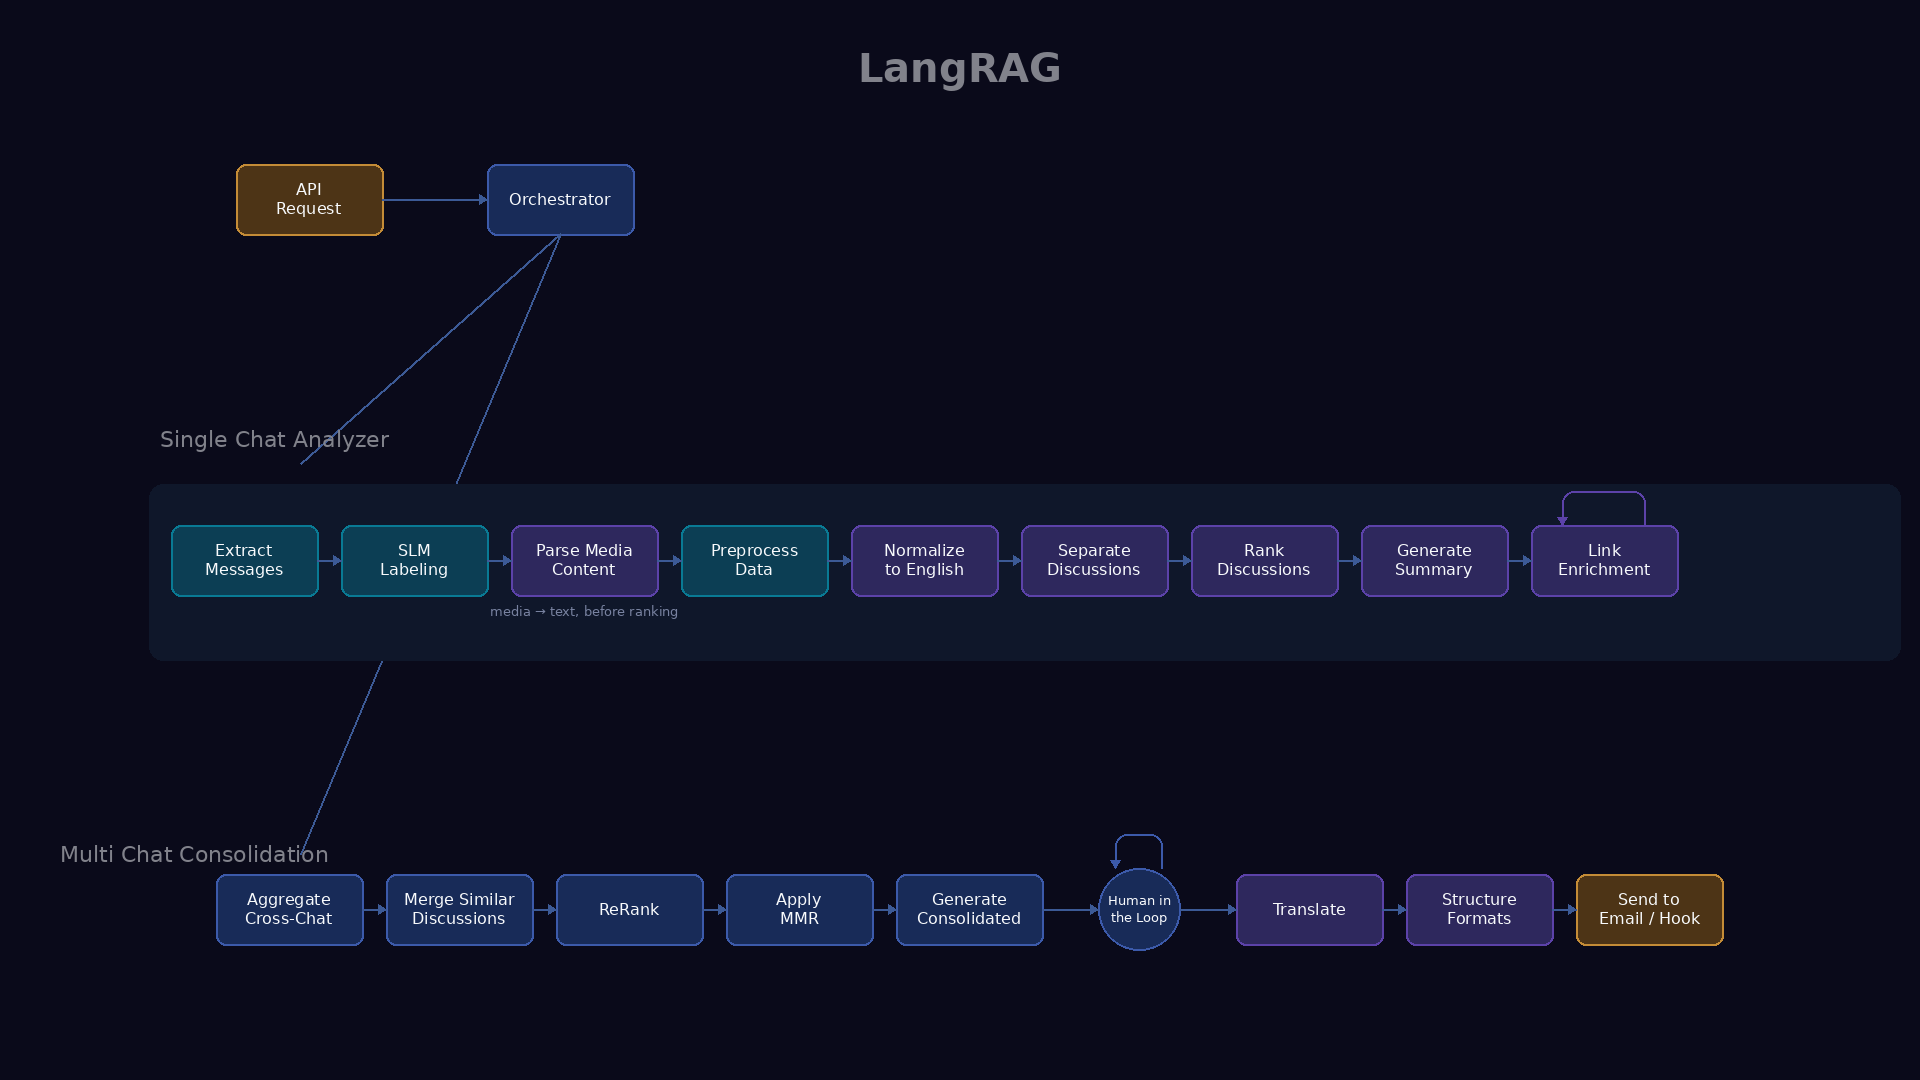
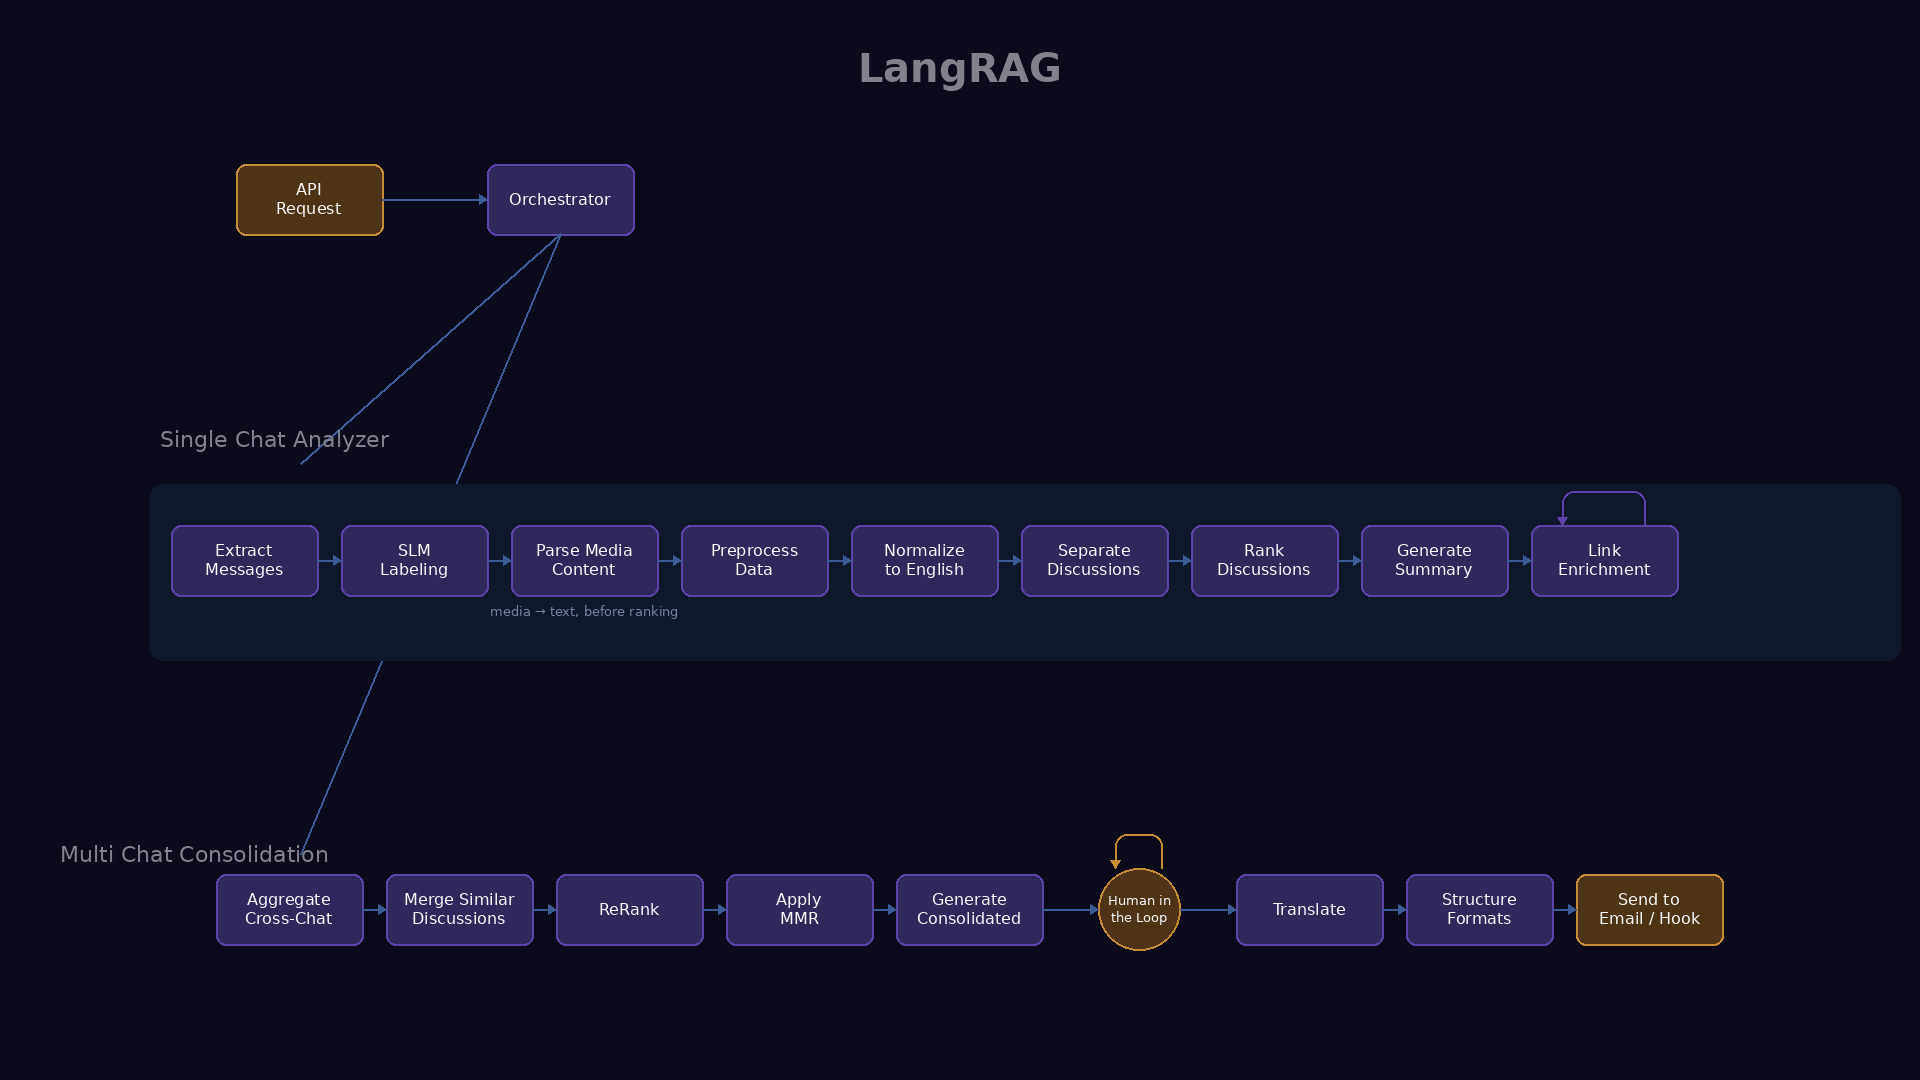
Recolor pipeline diagrams to a two-color scheme

Changed region(s): [[0.0625, 0.4889, 0.2812, 0.55], [0.5625, 0.7944, 0.625, 0.8861], [0.3438, 0.4889, 0.4375, 0.55]]

diff --git a/docs/figures/pipeline-animation/src/scenes/pipeline.tsx b/docs/figures/pipeline-animation/src/scenes/pipeline.tsx
@@ -59,15 +59,15 @@ interface StageData {
 // Media content is parsed to text before Preprocess, so it participates in
 // ranking; the post-rank "Associate Images" join is therefore unnecessary.
 const PIPELINE_STAGES: StageData[] = [
-  {label: 'Extract\nMessages', color: COLORS.TEAL},
-  {label: 'SLM\nLabeling', color: COLORS.TEAL},
-  {label: 'Parse Media\nContent', color: COLORS.PURPLE},
-  {label: 'Preprocess\nData', color: COLORS.TEAL},
-  {label: 'Normalize\nto English', color: COLORS.PURPLE},
-  {label: 'Separate\nDiscussions', color: COLORS.PURPLE},
-  {label: 'Rank\nDiscussions', color: COLORS.PURPLE},
-  {label: 'Generate\nSummary', color: COLORS.PURPLE},
-  {label: 'Link\nEnrichment', color: COLORS.PURPLE},
+  {label: 'Extract\nMessages', color: COLORS.INTERNAL},
+  {label: 'SLM\nLabeling', color: COLORS.INTERNAL},
+  {label: 'Parse Media\nContent', color: COLORS.INTERNAL},
+  {label: 'Preprocess\nData', color: COLORS.INTERNAL},
+  {label: 'Normalize\nto English', color: COLORS.INTERNAL},
+  {label: 'Separate\nDiscussions', color: COLORS.INTERNAL},
+  {label: 'Rank\nDiscussions', color: COLORS.INTERNAL},
+  {label: 'Generate\nSummary', color: COLORS.INTERNAL},
+  {label: 'Link\nEnrichment', color: COLORS.INTERNAL},
 ];
 
 interface BottomNode {
@@ -78,15 +78,15 @@ interface BottomNode {
 
 // Bottom row: 9 nodes — consolidation pipeline
 const BOTTOM_NODES: BottomNode[] = [
-  {label: 'Aggregate\nCross-Chat', color: COLORS.BLUE},
-  {label: 'Merge Similar\nDiscussions', color: COLORS.BLUE},
-  {label: 'ReRank', color: COLORS.BLUE},
-  {label: 'Apply\nMMR', color: COLORS.BLUE},
-  {label: 'Generate\nConsolidated', color: COLORS.BLUE},
-  {label: 'Human in\nthe Loop', color: COLORS.BLUE, isCircle: true},
-  {label: 'Translate', color: COLORS.PURPLE},
-  {label: 'Structure\nFormats', color: COLORS.PURPLE},
-  {label: 'Send to\nEmail / Hook', color: COLORS.AMBER},
+  {label: 'Aggregate\nCross-Chat', color: COLORS.INTERNAL},
+  {label: 'Merge Similar\nDiscussions', color: COLORS.INTERNAL},
+  {label: 'ReRank', color: COLORS.INTERNAL},
+  {label: 'Apply\nMMR', color: COLORS.INTERNAL},
+  {label: 'Generate\nConsolidated', color: COLORS.INTERNAL},
+  {label: 'Human in\nthe Loop', color: COLORS.USER, isCircle: true},
+  {label: 'Translate', color: COLORS.INTERNAL},
+  {label: 'Structure\nFormats', color: COLORS.INTERNAL},
+  {label: 'Send to\nEmail / Hook', color: COLORS.USER},
 ];
 
 // ──────────────────────────────────────────────────
@@ -156,12 +156,12 @@ export default makeScene2D(function* (view) {
         width={NODE_W}
         height={NODE_H}
         radius={8}
-        fill={COLORS.AMBER + '30'}
-        stroke={COLORS.AMBER}
+        fill={COLORS.USER + '30'}
+        stroke={COLORS.USER}
         lineWidth={1.5}
         opacity={0}
         scale={0.6}
-        shadowColor={glowOf(COLORS.AMBER)}
+        shadowColor={glowOf(COLORS.USER)}
         shadowBlur={12}
       >
         <Txt
@@ -182,12 +182,12 @@ export default makeScene2D(function* (view) {
         width={220}
         height={NODE_H}
         radius={8}
-        fill={COLORS.BLUE + '30'}
-        stroke={COLORS.BLUE}
+        fill={COLORS.INTERNAL + '30'}
+        stroke={COLORS.INTERNAL}
         lineWidth={1.5}
         opacity={0}
         scale={0.6}
-        shadowColor={glowOf(COLORS.BLUE)}
+        shadowColor={glowOf(COLORS.INTERNAL)}
         shadowBlur={12}
       >
         <Txt
@@ -252,7 +252,7 @@ export default makeScene2D(function* (view) {
           new Vector2(orchX + (fi - 1) * 30, midY),
           new Vector2(fanTargetX, targetY),
         ]}
-        stroke={COLORS.BLUE + '80'}
+        stroke={COLORS.EDGE + '80'}
         lineWidth={2.5}
         end={0}
         endArrow
@@ -431,7 +431,7 @@ export default makeScene2D(function* (view) {
         new Vector2(linkX - 28, CONTAINER_Y - STAGE_H / 2 - loopRadius),
         new Vector2(linkX - 28, CONTAINER_Y - STAGE_H / 2),
       ]}
-      stroke={COLORS.PURPLE + '90'}
+      stroke={COLORS.INTERNAL + '90'}
       lineWidth={2}
       end={0}
       endArrow
@@ -602,7 +602,7 @@ export default makeScene2D(function* (view) {
         new Vector2(hitlX - 24, ROW_BOT - CIRCLE_R - hitlLoopR),
         new Vector2(hitlX - 24, ROW_BOT - CIRCLE_R),
       ]}
-      stroke={COLORS.BLUE + '90'}
+      stroke={COLORS.USER + '90'}
       lineWidth={2}
       end={0}
       endArrow
@@ -624,7 +624,7 @@ export default makeScene2D(function* (view) {
         new Vector2(botX(0), ROW_BOT - 40),
         new Vector2(botX(0), ROW_BOT - BOT_NODE_H / 2),
       ]}
-      stroke={COLORS.BLUE + '60'}
+      stroke={COLORS.EDGE + '60'}
       lineWidth={1.5}
       end={0}
       endArrow

diff --git a/docs/figures/pipeline-animation/src/components/PipelineNode.tsx b/docs/figures/pipeline-animation/src/components/PipelineNode.tsx
@@ -14,4 +14,11 @@ export const COLORS = {
   GLOW_AMBER: '#f59e0b80',
   CONTAINER_BG: '#0f172a',
   CONTAINER_BORDER: '#1e293b',
+  // Two-color scheme, single axis: does a human touch this node?
+  // USER = the request in, the review step, the delivered newsletter out.
+  // INTERNAL = everything the system does on its own.
+  USER: '#f59e0b',
+  INTERNAL: '#8b5cf6',
+  GLOW_USER: '#f59e0b80',
+  GLOW_INTERNAL: '#8b5cf680',
 } as const;

diff --git a/docs/figures/pipeline_overview/pipeline_flow.py b/docs/figures/pipeline_overview/pipeline_flow.py
@@ -26,10 +26,12 @@ WHITE = (248, 250, 252)
 TITLE = (129, 130, 139)
 SECTION = (129, 130, 139)
 
-TEAL_FILL, TEAL_BORDER = (12, 62, 84), (9, 122, 148)          # infra / ingestion
-PURPLE_FILL, PURPLE_BORDER = (46, 40, 93), (92, 66, 169)      # LLM-powered
-BLUE_FILL, BLUE_BORDER = (24, 43, 88), (60, 90, 170)          # orchestration
-ORANGE_FILL, ORANGE_BORDER = (77, 52, 22), (196, 140, 55)     # entry / output
+# Two colors only, on a single axis: does a human touch this node?
+#   USER  — the pipeline's human touchpoints: the request in, the review
+#           step, the delivered newsletter out.
+#   INTERNAL — everything the system does on its own.
+USER_FILL, USER_BORDER = (77, 52, 22), (196, 140, 55)
+INTERNAL_FILL, INTERNAL_BORDER = (46, 40, 93), (92, 66, 169)
 ARROW = (60, 90, 150)
 
 # ── Geometry (sampled) ──────────────────────────────────────────────────────
@@ -111,8 +113,8 @@ def main():
     d.text((W // 2, 68), "LangRAG", font=F_TITLE, fill=TITLE, anchor="mm")
 
     # ── Row 1: API -> Orchestrator ──────────────────────────────────────────
-    node(d, 309, ROW1_CY, ["API", "Request"], ORANGE_FILL, ORANGE_BORDER)
-    node(d, 560, ROW1_CY, ["Orchestrator"], BLUE_FILL, BLUE_BORDER)
+    node(d, 309, ROW1_CY, ["API", "Request"], USER_FILL, USER_BORDER)
+    node(d, 560, ROW1_CY, ["Orchestrator"], INTERNAL_FILL, INTERNAL_BORDER)
     arrow(d, 309 + NODE_W // 2, ROW1_CY, 560 - NODE_W // 2, ROW1_CY)
 
     # Orchestrator fan-out (schematic) to both bands
@@ -124,17 +126,17 @@ def main():
     d.text((160, 439), "Single Chat Analyzer", font=F_SECTION, fill=SECTION, anchor="lm")
 
     # 9 nodes — media content is parsed to text here, so no post-rank image join.
-    # (fill, border, [lines])  teal = ingestion/infra, purple = LLM-powered
+    # (fill, border, [lines]) — no human touches this row, so all INTERNAL
     row2 = [
-        (TEAL_FILL, TEAL_BORDER, ["Extract", "Messages"]),
-        (TEAL_FILL, TEAL_BORDER, ["SLM", "Labeling"]),
-        (PURPLE_FILL, PURPLE_BORDER, ["Parse Media", "Content"]),   # vision -> inline text
-        (TEAL_FILL, TEAL_BORDER, ["Preprocess", "Data"]),
-        (PURPLE_FILL, PURPLE_BORDER, ["Normalize", "to English"]),
-        (PURPLE_FILL, PURPLE_BORDER, ["Separate", "Discussions"]),
-        (PURPLE_FILL, PURPLE_BORDER, ["Rank", "Discussions"]),
-        (PURPLE_FILL, PURPLE_BORDER, ["Generate", "Summary"]),
-        (PURPLE_FILL, PURPLE_BORDER, ["Link", "Enrichment"]),
+        (INTERNAL_FILL, INTERNAL_BORDER, ["Extract", "Messages"]),
+        (INTERNAL_FILL, INTERNAL_BORDER, ["SLM", "Labeling"]),
+        (INTERNAL_FILL, INTERNAL_BORDER, ["Parse Media", "Content"]),   # vision -> inline text
+        (INTERNAL_FILL, INTERNAL_BORDER, ["Preprocess", "Data"]),
+        (INTERNAL_FILL, INTERNAL_BORDER, ["Normalize", "to English"]),
+        (INTERNAL_FILL, INTERNAL_BORDER, ["Separate", "Discussions"]),
+        (INTERNAL_FILL, INTERNAL_BORDER, ["Rank", "Discussions"]),
+        (INTERNAL_FILL, INTERNAL_BORDER, ["Generate", "Summary"]),
+        (INTERNAL_FILL, INTERNAL_BORDER, ["Link", "Enrichment"]),
     ]
     step = NODE_W + GAP
     centers = []
@@ -146,7 +148,7 @@ def main():
             arrow(d, centers[i - 1] + NODE_W // 2, ROW2_CY, cx - NODE_W // 2, ROW2_CY)
 
     # Link Enrichment (last node) loops back on itself — iterative link resolution
-    self_loop(d, centers[-1], ROW2_CY - NODE_H // 2, color=PURPLE_BORDER)
+    self_loop(d, centers[-1], ROW2_CY - NODE_H // 2, color=INTERNAL_BORDER)
 
     # annotation clarifying why this node sits before Preprocess
     d.text((centers[2], ROW2_CY + NODE_H // 2 + 16),
@@ -156,15 +158,15 @@ def main():
     d.text((60, 854), "Multi Chat Consolidation", font=F_SECTION, fill=SECTION, anchor="lm")
     # "shape" flags: "circle" renders HITL as a circle with a self-loop.
     row3 = [
-        (BLUE_FILL, BLUE_BORDER, ["Aggregate", "Cross-Chat"], "rect"),
-        (BLUE_FILL, BLUE_BORDER, ["Merge Similar", "Discussions"], "rect"),
-        (BLUE_FILL, BLUE_BORDER, ["ReRank"], "rect"),
-        (BLUE_FILL, BLUE_BORDER, ["Apply", "MMR"], "rect"),
-        (BLUE_FILL, BLUE_BORDER, ["Generate", "Consolidated"], "rect"),
-        (BLUE_FILL, BLUE_BORDER, ["Human in", "the Loop"], "circle"),
-        (PURPLE_FILL, PURPLE_BORDER, ["Translate"], "rect"),
-        (PURPLE_FILL, PURPLE_BORDER, ["Structure", "Formats"], "rect"),
-        (ORANGE_FILL, ORANGE_BORDER, ["Send to", "Email / Hook"], "rect"),
+        (INTERNAL_FILL, INTERNAL_BORDER, ["Aggregate", "Cross-Chat"], "rect"),
+        (INTERNAL_FILL, INTERNAL_BORDER, ["Merge Similar", "Discussions"], "rect"),
+        (INTERNAL_FILL, INTERNAL_BORDER, ["ReRank"], "rect"),
+        (INTERNAL_FILL, INTERNAL_BORDER, ["Apply", "MMR"], "rect"),
+        (INTERNAL_FILL, INTERNAL_BORDER, ["Generate", "Consolidated"], "rect"),
+        (USER_FILL, USER_BORDER, ["Human in", "the Loop"], "circle"),
+        (INTERNAL_FILL, INTERNAL_BORDER, ["Translate"], "rect"),
+        (INTERNAL_FILL, INTERNAL_BORDER, ["Structure", "Formats"], "rect"),
+        (USER_FILL, USER_BORDER, ["Send to", "Email / Hook"], "rect"),
     ]
     r3x0 = 216
     prev = None
@@ -173,7 +175,7 @@ def main():
         if shape == "circle":
             diam = NODE_H + 12
             circle_node(d, cx, ROW3_CY, lines, fill, border, diam=diam)
-            self_loop(d, cx, ROW3_CY - diam // 2, color=BLUE_BORDER, w=diam)
+            self_loop(d, cx, ROW3_CY - diam // 2, color=USER_BORDER, w=diam)
             half = diam // 2
         else:
             node(d, cx, ROW3_CY, lines, fill, border)